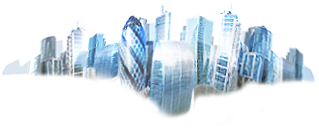
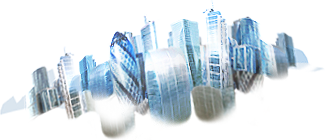
Add the "futuristic city" image.

diff --git a/app/assets/stylesheets/scenarios/_modern.sass b/app/assets/stylesheets/scenarios/_modern.sass
@@ -53,3 +53,11 @@
         position: absolute
         top: 40px
         width: 162px
+
+      .city
+        background: url(/assets/scenarios/modern/header/future-city.png) top left no-repeat
+        height: 140px
+        left: 250px
+        position: absolute
+        top: 20px
+        width: 325px
